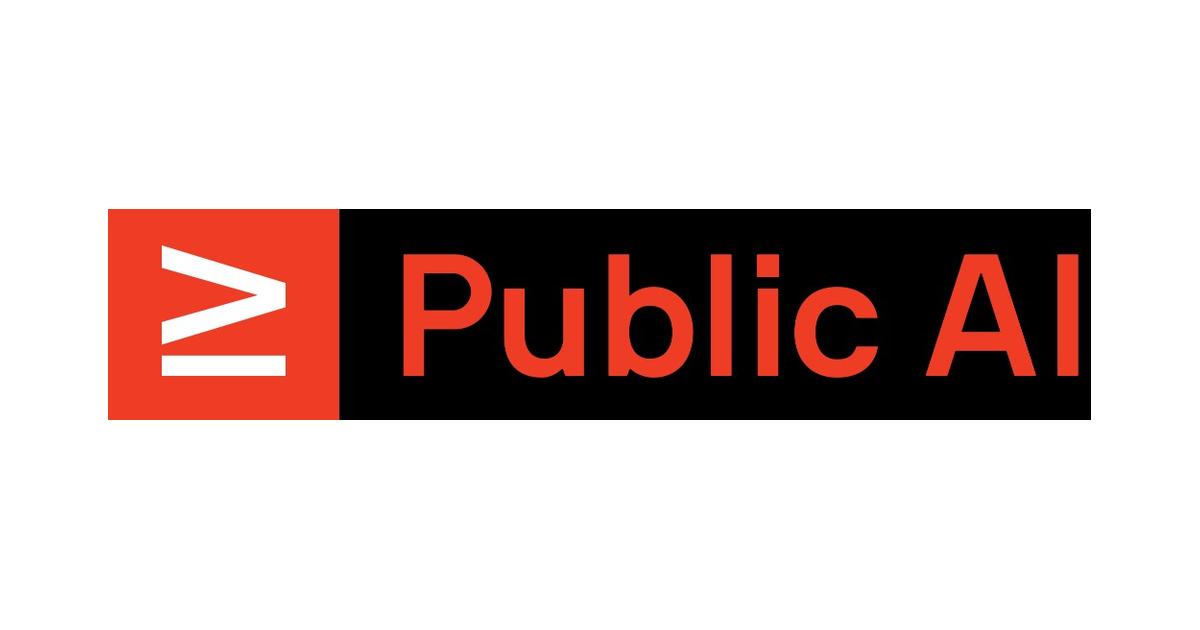
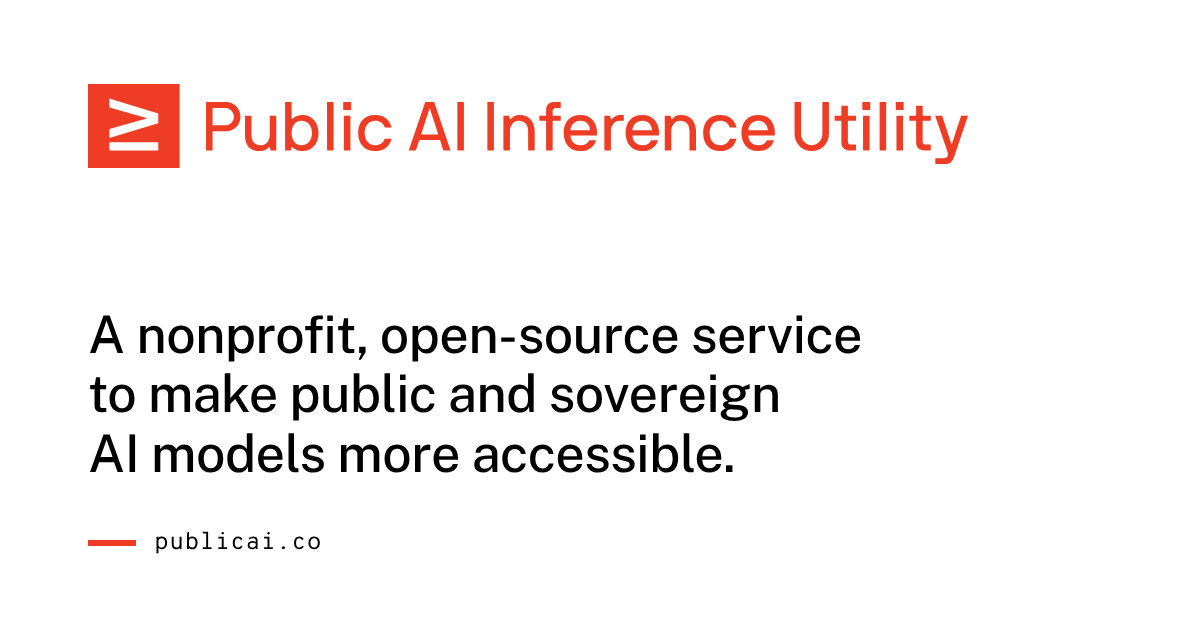
New default social card
The old card was a transparent logo flattened onto black. The new one is
white, with the wordmark, the site description and the domain. The image
URL is versioned (?v=2) so cached previews refresh, and the alt text
describes the site.

Claude-Session: https://claude.ai/code/session_01QFaMdkbsGZBkQHx2xnBa6Y

Changed region(s): [[0.0617, 0.3317, 0.925, 0.754], [0.0617, 0.1206, 0.8017, 0.2714], [0.0617, 0.8444, 0.2775, 0.8746]]

diff --git a/src/app/page.tsx b/src/app/page.tsx
@@ -14,10 +14,10 @@ export const metadata: Metadata = {
     description: "A nonprofit, open-source service to make public and sovereign AI models more accessible.",
     images: [
       {
-        url: "https://publicai.co/og-image.png",
+        url: "https://publicai.co/og-image.png?v=2",
         width: 1200,
         height: 630,
-        alt: "Public AI",
+        alt: "Public AI Inference Utility: a nonprofit, open-source service to make public and sovereign AI models more accessible",
       },
     ],
   },
@@ -25,7 +25,7 @@ export const metadata: Metadata = {
     card: "summary_large_image",
     title: "Public AI Inference Utility",
     description: "A nonprofit, open-source service to make public and sovereign AI models more accessible.",
-    images: ["https://publicai.co/og-image.png"],
+    images: ["https://publicai.co/og-image.png?v=2"],
   },
 };
 

diff --git a/src/app/layout.tsx b/src/app/layout.tsx
@@ -26,10 +26,10 @@ export const metadata: Metadata = {
     type: "website",
     images: [
       {
-        url: 'https://publicai.co/og-image.png',
+        url: 'https://publicai.co/og-image.png?v=2',
         width: 1200,
         height: 630,
-        alt: 'Public AI',
+        alt: 'Public AI Inference Utility: a nonprofit, open-source service to make public and sovereign AI models more accessible',
       },
     ],
   },
@@ -37,7 +37,7 @@ export const metadata: Metadata = {
     card: 'summary_large_image',
     title: "Public AI Inference Utility",
     description: "A nonprofit, open-source service to make public and sovereign AI models more accessible.",
-    images: ['https://publicai.co/og-image.png'],
+    images: ['https://publicai.co/og-image.png?v=2'],
   },
 };
 
